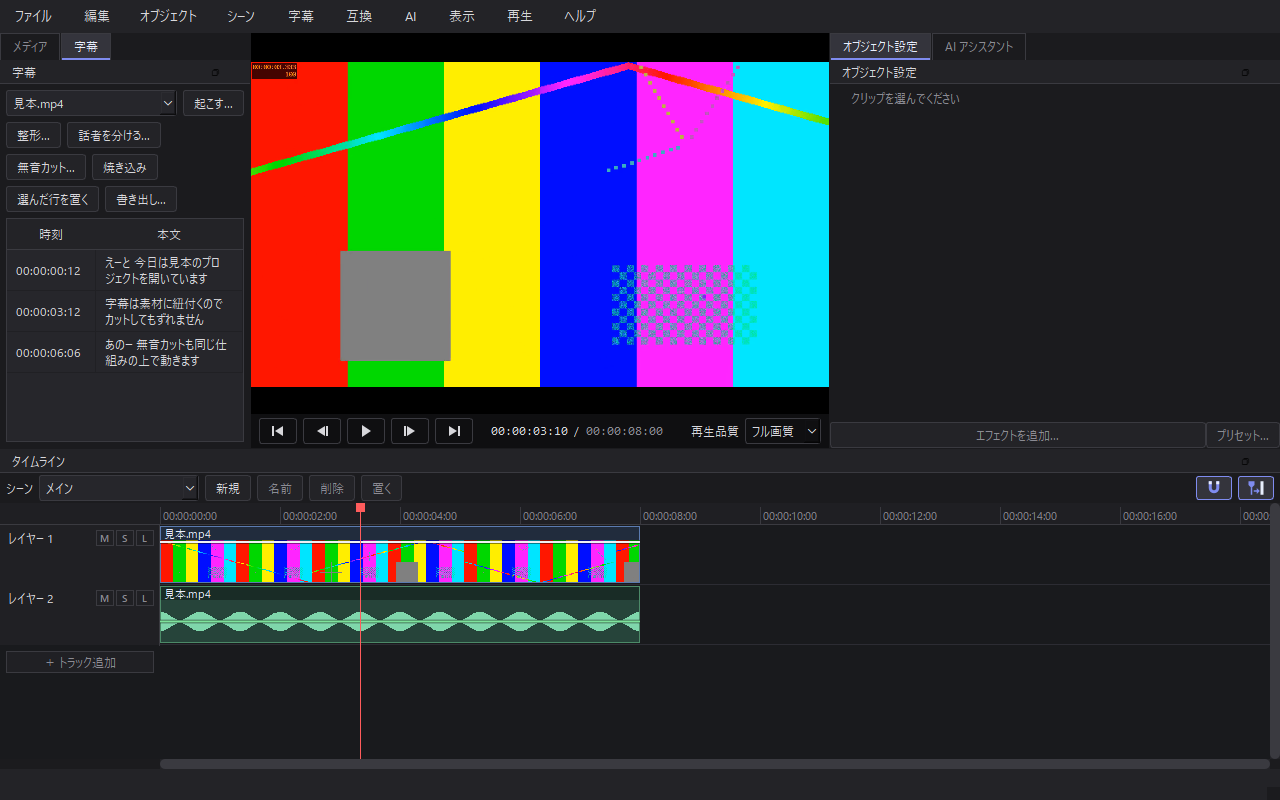
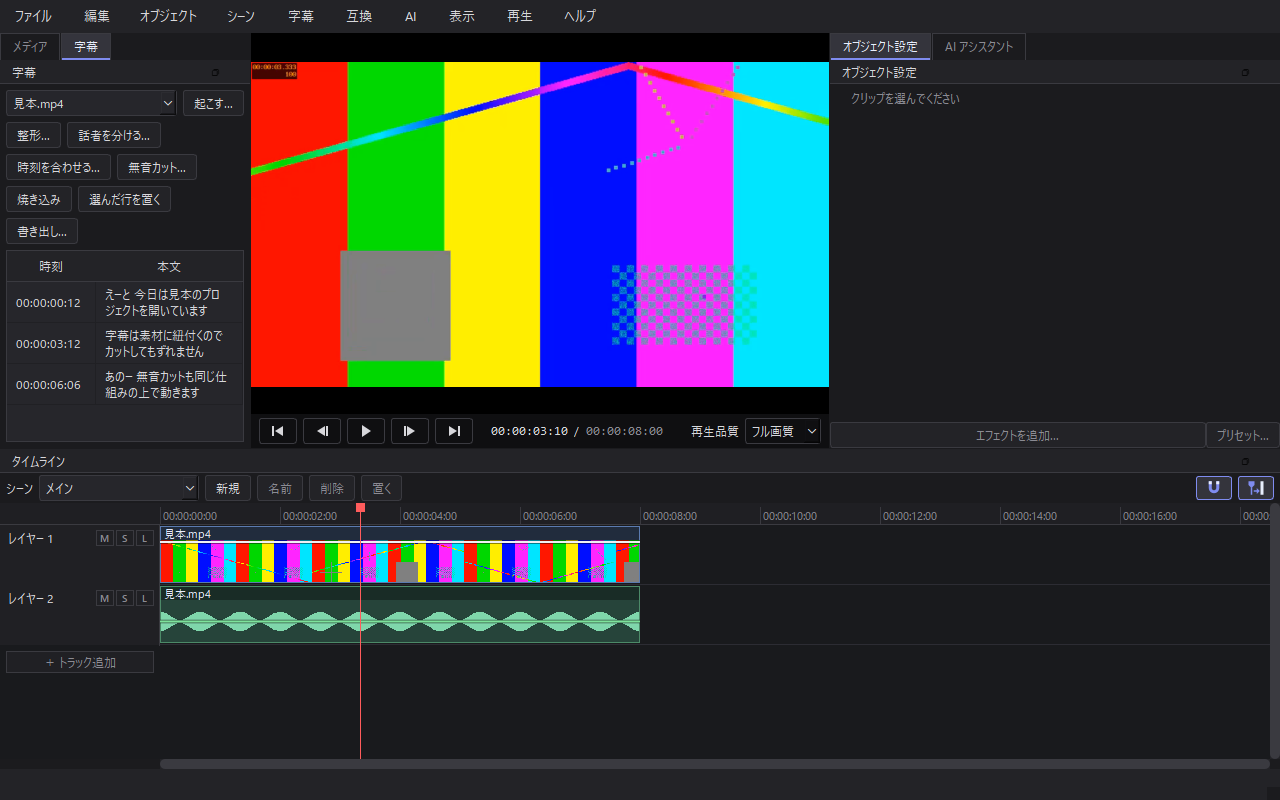
0.2.4 を出すために版の数字を上げ、README と画面の写真を今の機能に合わせる (#438)
* 0.2.4 を出すために版の数字を上げ、README と画面の写真を今の機能に合わせる

- 版を 0.2.4 に 報告の欄の版の例と、署名していない版の上限も 0.2.4 に
- README に字幕の時刻を合わせる行・録画の素材の控え・AI の操作の数（144）を足し、字幕のずれの既知の課題を今の状態に直す
- 字幕パネルと設定の写真を撮り直す 起こしの窓の写真は設定の既定（語の時刻を取る）で撮る

* README の控えを作る条件と切り方を実際の決まりに合わせる

---------

diff --git a/tools/shots.py b/tools/shots.py
@@ -1334,15 +1334,19 @@ def wiki_subtitle_install(context: Context) -> QImage:
     """
     from sashimono.asr import TranscriptionService, default_backend
     from sashimono.ui.subtitle.transcribe_dialog import TranscribeDialog
+    from sashimono.ui.workspace import Preferences
 
     with editor(sample_project()) as window:
         import_sample(window, context)
         media = window.project.media[0]
+        # 窓の初めの値は字幕パネルが本人の設定から渡す 渡さないと窓の引数の既定（語の時刻は
+        # 取らない）で撮れ、初めて使う人が見る画面（設定の既定は取る）と食い違う
         dialog = TranscribeDialog(
             media,
             TranscriptionService(default_backend()),
             window,
             status=asr_not_installed,
+            words=Preferences().word_timestamps,
         )
         return _grab_dialog(dialog, marks=("環境を導入",))
 

diff --git a/src/sashimono/__init__.py b/src/sashimono/__init__.py
@@ -1,3 +1,3 @@
 """Sashimono Edit — Python 製の動画編集ソフト"""
 
-__version__ = "0.2.3"
+__version__ = "0.2.4"

diff --git a/docs/code-signing-policy.md b/docs/code-signing-policy.md
@@ -10,7 +10,7 @@ Planned: free code signing provided by [SignPath.io](https://about.signpath.io/)
 
 > Status: the SignPath Foundation did not approve the first application (October 2026) because the
 > project is not yet widely known. We plan to apply again once it has gained broader recognition.
-> Releases up to and including 0.2.3 are **not** signed.
+> Releases up to and including 0.2.4 are **not** signed.
 > This page will be updated when signed releases begin.
 
 ### What is signed
@@ -97,7 +97,7 @@ Planned: free code signing provided by [SignPath.io](https://about.signpath.io/)
 （予定 SignPath.io の無料のコード署名を使い、証明書は SignPath Foundation が持つ）
 
 > 最初の申し込み（2026 年 10 月）は、まだ広く知られていないという理由で SignPath Foundation に通らなかった
-> 知られるようになったら申し込み直す 0.2.3 までの版は署名していない
+> 知られるようになったら申し込み直す 0.2.4 までの版は署名していない
 > 署名した版を出し始めたら、このページを直す
 
 ### 署名する物
